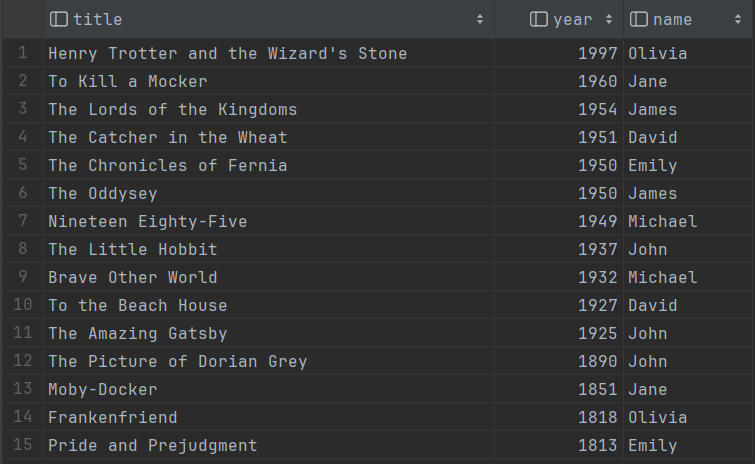
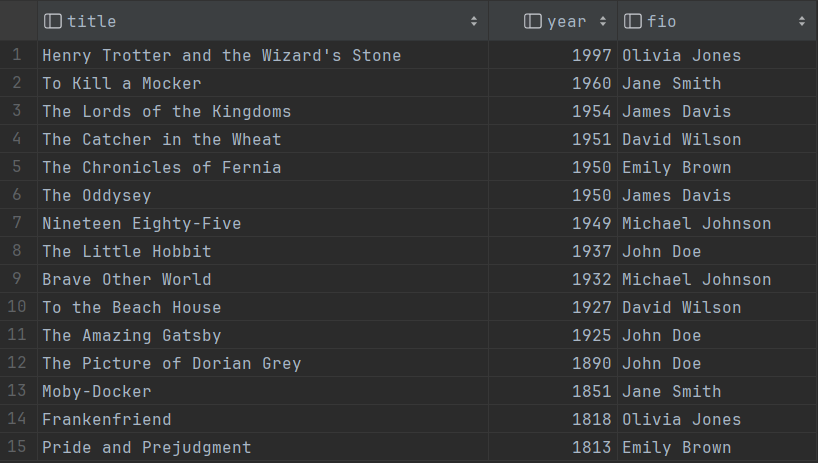
fix first task solution

diff --git a/solution.md b/solution.md
@@ -67,8 +67,8 @@ VALUES ('The Amazing Gatsby', 1925, 180, 1),
 ### Запросы
 ```sql
 -- 1. Выбрать название книги, год, ФИО автора отсортированные по году издания по убыванию
-SELECT b.title, b.year, a.name
-FROM books b
+SELECT b.title, b.year, a.name || ' ' || a.surname AS fio
+from books b
          JOIN authors a ON b.author_id = a.id
 ORDER BY year DESC;
 ```
